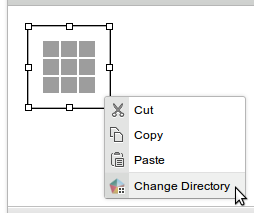
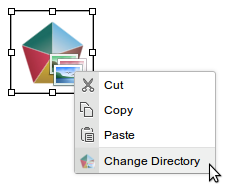
Fix image-gallery images

Changed region(s): [[0.0, 0.0, 1.0, 1.0]]

diff --git a/image-gallery.html b/image-gallery.html
@@ -10,7 +10,7 @@
   <ol>
     <li>
       <p>Click on the Image Gallery icon.</p>
-      <p><img src="images/image-gallery/show-icon.png"/></p>
+      <p class="icon"><img src="https://rawgit.com/ox-it/wl-ck-plugins/master/image-gallery/icons/image-gallery.png"/></p>
     </li>
     <li>
       <p>
@@ -57,7 +57,7 @@
     </li>
     <li>
       <p>Click OK to embed the gallery.</p>
-      <p><img src="images/image-gallery/embed.png"/></p>
+      <p class="placeholder"><img src="https://rawgit.com/ox-it/wl-ck-plugins/master/image-gallery/icons/placeholder.png"/></p>
     </li>
     <li>
       <p>
